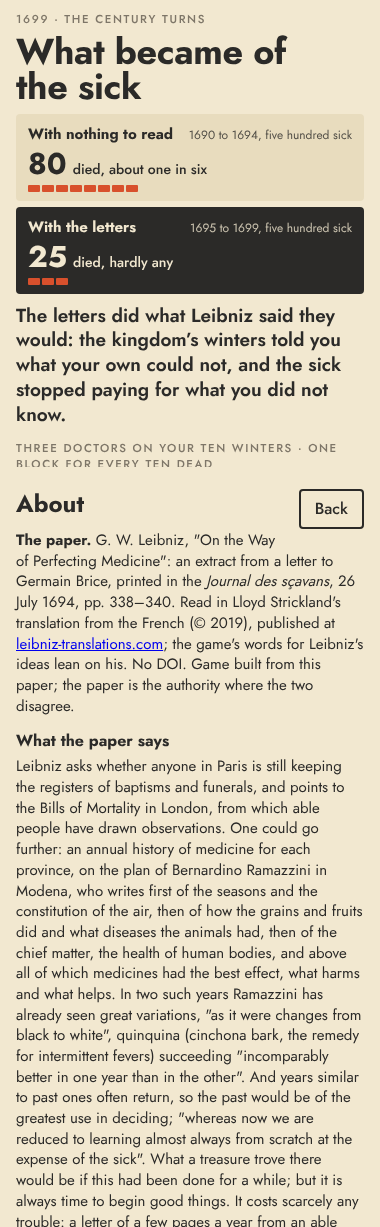
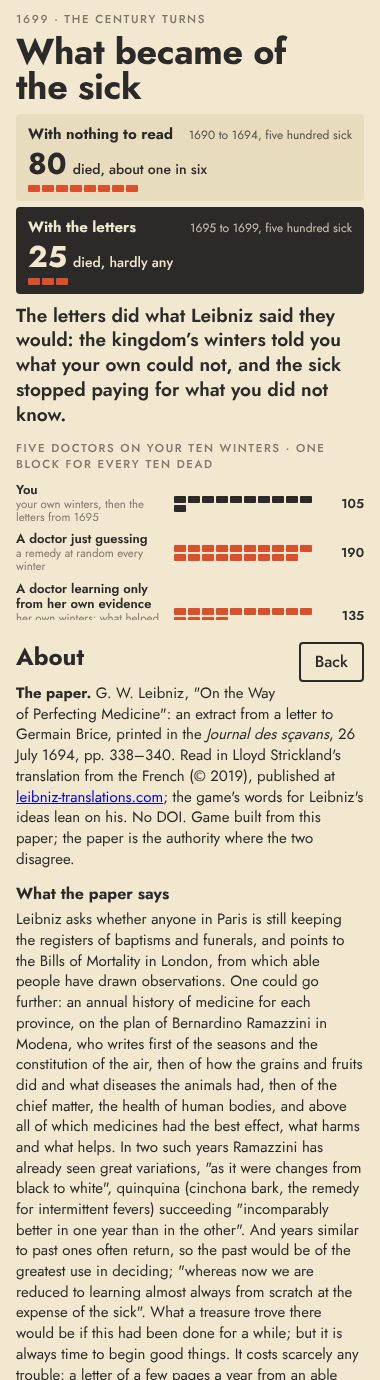
Leibniz's Register: the verdict's ladder of five doctors
You; a doctor just guessing; a doctor learning only from her own evidence (her own winters by kind, what helped, what harmed, what is untried); a doctor in a world with registers since 1690; an omniscient doctor, the floor. Each row says what the doctor goes on. The calibration check proves the ladder's order over three hundred draws.

Claude-Session: https://claude.ai/code/session_018niUhxXQfp1zujFvzx7yxE

Changed region(s): [[0.0289, 0.0, 0.9553, 1.0], [0.6658, 0.0, 0.7526, 0.0619]]

diff --git a/leibniz-medicine/leibnizs-register.html b/leibniz-medicine/leibnizs-register.html
@@ -119,9 +119,9 @@ b,strong{font-weight:700}
 .half .dr{display:flex;flex-wrap:wrap;gap:2px}.half .dr i{display:block;width:12px;height:7px;border-radius:1px;background:var(--tomato)}
 .vl{font-size:15.5px;margin:0 0 8px}
 .docs{margin:10px 0 6px}
-.doc{display:flex;align-items:center;gap:8px;margin:6px 0}
-.doc .dn{width:118px;flex:none;font-size:12.5px;line-height:1.15}
-.doc .dn b{display:block;font-weight:600;font-size:13px}
+.doc{display:flex;align-items:center;gap:8px;margin:8px 0}
+.doc .dn{width:150px;flex:none;font-size:11.5px;line-height:1.15;color:var(--mute)}
+.doc .dn b{display:block;font-weight:600;font-size:13px;color:var(--ink);line-height:1.15}
 .doc .dr{flex:1;display:flex;flex-wrap:wrap;gap:2px}
 .doc .dr i{display:block;width:12px;height:7px;border-radius:1px;background:var(--tomato)}
 .doc.you .dr i{background:var(--ink)}
@@ -252,7 +252,7 @@ b,strong{font-weight:700}
   <h2 class="title" style="font-size:36px">What became of<br>the sick</h2>
   <div class="halves" id="halves"></div>
   <p class="verdict" id="v-lead"></p>
-  <div class="lab" style="margin-top:14px">Three doctors on your ten winters &middot; one block for every ten dead</div>
+  <div class="lab" style="margin-top:14px">Five doctors on your ten winters &middot; one block for every ten dead</div>
   <div class="docs" id="docs"></div>
   <div class="lab" style="margin-top:14px">Your ten winters</div>
   <div class="decade" id="decade"></div>
@@ -290,7 +290,7 @@ b,strong{font-weight:700}
     <h3>What you have to go on</h3>
     <p>Your own past winters, every one, as small cards: the two cards of the winter, what you gave, what came of it. From 1695, the letters: every province's physician writes a few lines a year, and the box under the two cards says what the letters so far show for this kind of winter, how often each remedy helped, was no better than the fever alone, or harmed. The full collection, every letter grouped by kind of winter with your own among them, is behind the black button. The other physicians read the letters too, so from the second year they mostly give what the letters show helped.</p>
     <h3>The end</h3>
-    <p>After 1699 the game shows the dead of your five winters with nothing to read against the dead of your five with the letters, then sets your ten beside a doctor who never read a letter and one who had letters since 1690, and shows your ten winters as they were. Add <i>?seed=</i> and a number to the address to replay a draw.</p>
+    <p>After 1699 the game shows the dead of your five winters with nothing to read against the dead of your five with the letters, then sets your ten beside four doctors on the same winters (one just guessing, one learning only from her own evidence, one in a world with registers since 1690, and an omniscient one), and shows your ten winters as they were. Add <i>?seed=</i> and a number to the address to replay a draw.</p>
   </div>
 </div>
 
@@ -304,7 +304,7 @@ b,strong{font-weight:700}
     <p>Leibniz asks whether anyone in Paris is still keeping the registers of baptisms and funerals, and points to the Bills of Mortality in London, from which able people have drawn observations. One could go further: an annual history of medicine for each province, on the plan of Bernardino Ramazzini in Modena, who writes first of the seasons and the constitution of the air, then of how the grains and fruits did and what diseases the animals had, then of the chief matter, the health of human bodies, and above all of which medicines had the best effect, what harms and what helps. In two such years Ramazzini has already seen great variations, "as it were changes from black to white", quinquina (cinchona bark, the remedy for intermittent fevers) succeeding "incomparably better in one year than in the other". And years similar to past ones often return, so the past would be of the greatest use in deciding; "whereas now we are reduced to learning almost always from scratch at the expense of the sick". What a treasure trove there would be if this had been done for a while; but it is always time to begin good things. It costs scarcely any trouble: a letter of a few pages a year from an able practitioner in each province, to the First Doctor of the King, by public order. France, with its police, could do it best, and the king would deserve more by it than the kings who gave their names to a few medicines, or than Alfonso and Ulugh Beg by their astronomy. The soul and the body, he ends, are the first things that should be thought about, and the last that are.</p>
     <h3>What the game does</h3>
     <p>It gives you the practitioner's winter, ten times. A winter has a kind, and the kind is two things you can see: cold or mild, dry or wet. A hundred sick come with the winter's fever and you give them one remedy: bark, bleeding or rest. Left to itself the fever kills about twenty of a hundred, and the game says so. In every kind of winter one remedy helps (five die), one is no better than the fever alone (twenty), and one harms (thirty), and which is which depends only on the kind; rest is a treatment like the others, bed, warmth and broth by the doctor's order; the same bark helps in one kind and harms in another. You see what the remedy you gave did and nothing about the others. For four winters you have only your own past winters to go on, and you can see all of them: your memory is not the problem, your sample is. One province meets one winter a year, and a kind you have never had tells you nothing. Then Leibniz's letter arrives, and by public order every physician in every province writes a few lines a year to the First Doctor, who sends the collection back. From 1695 the box under the two cards says what the letters so far show for this kind of winter, twenty-four provinces' worth a year, and the whole collection is behind a button; by 1696 it holds the remedy that helps in every kind. The hard part dissolves, and that dissolving is what the game is for. The other physicians choose at random in the first year of letters and from then on give what the letters show helped in their kind, choosing at random only where the letters show nothing yet; so the first year's letters show what harmed as well as what helped, and the later ones converge. The draw is checked so that the letters of 1694 hold the remedy for your 1695 winter and the letters of 1694 and 1695 hold it for every kind.</p>
-    <p>The plan of your own ten winters is fixed and the kinds are drawn fresh each game: a winter that repeats, when trusting last winter is right; a lookalike, one card the same and the other different, when last winter's remedy harms; a new kind with nothing to read; and from 1695 winters the letters answer. At the end the game sets the dead of your five winters with nothing to read against the dead of your five with the letters, and your ten beside two other doctors on the same winters: one who never read a letter, with nothing but his own winters, who repeats what helped last year and otherwise tries another; and one who had had letters from 1690, as Leibniz wished it had been done "for a while now". The score, the dead out of a thousand sick, is the game's; the unit, the sick, is Leibniz's.</p>
+    <p>The plan of your own ten winters is fixed and the kinds are drawn fresh each game: a winter that repeats, when trusting last winter is right; a lookalike, one card the same and the other different, when last winter's remedy harms; a new kind with nothing to read; and from 1695 winters the letters answer. At the end the game sets the dead of your five winters with nothing to read against the dead of your five with the letters, and your ten beside four other doctors on the same winters: one just guessing, a remedy at random every winter; one learning only from her own evidence, her own winters by kind, what helped there, what harmed, what is untried; one in a world with registers since 1690, as Leibniz wished it had been done "for a while now"; and an omniscient one, who knows what helps in every kind of winter from the start and so loses five of a hundred every winter, the floor. The score, the dead out of a thousand sick, is the game's; the unit, the sick, is Leibniz's.</p>
     <h3>What kind of mechanism this is</h3>
     <p><b>Toy.</b> The game runs a model built to illustrate the paper's argument, and where the argument had to be made exact, the toy chose: a winter's kind is two cards; a remedy's effect depends on the kind and on nothing else; five, twenty and thirty of a hundred die under the remedy that helps, is no better than the fever alone, and harms, twenty being the fever's own toll; twenty-four other provinces, each with its own winter and a doctor who chooses at random until the letters show him what helps; and the plan of which kind comes to you when. There is no noise: the same remedy in the same kind of winter does the same thing every time, everywhere.</p>
     <ul>
@@ -504,6 +504,16 @@ b,strong{font-weight:700}
   }
   var DOCTORS = {
     memory: function (game, t, r) { return lastYearRule(game, t, r, []); },       // trusts the remembered winter: repeats what helped last year, otherwise tries another
+    guess: function (game, t, r) { return pick(CONFIG.REMEDIES, r); },             // a remedy at random every winter (verdict row, revision 0d)
+    // learns only from her own evidence: her own winters by kind; gives what helped there, avoids what harmed or was no
+    // better, guesses among the untried (verdict row, revision 0d)
+    ownEvidence: function (game, t, r) {
+      var k = kindAt(game, t), seen = {};
+      game.history.slice(0, t).forEach(function (h) { if (h.kind === k) seen[h.remedy] = h.effect; });
+      var hel = CONFIG.REMEDIES.filter(function (x) { return seen[x] === 'helps'; }); if (hel.length) return hel[0];
+      var untried = CONFIG.REMEDIES.filter(function (x) { return seen[x] === undefined; });
+      return pick(untried.length ? untried : CONFIG.REMEDIES, r);
+    },
     bleeding: function () { return 'bleed'; }, bark: function () { return 'bark'; }, rest: function () { return 'rest'; },
     reader: function (game, t, r) { return readRule(game, t, r, CONFIG.LETTER_YEAR); },   // reads the collection from 1694
     readerFrom1690: function (game, t, r) { return readRule(game, t, r, 1690); },         // Leibniz's counterfactual: every doctor writing "for a while now"
@@ -537,7 +547,7 @@ b,strong{font-weight:700}
     // before: the winters with nothing to read (1690 to 1694, the first letters come back in 1695); after: with the letters
     H.forEach(function (h) { total += h.dead; st[h.lookup.status]++; if (h.year <= CONFIG.LETTER_YEAR) { before += h.dead; nBefore++; } else { after += h.dead; nAfter++; } });
     var others = {};
-    ['memory', 'reader', 'readerFrom1690', 'oracle'].forEach(function (n) { var tot = 0; for (var k = 0; k < CONFIG.OTHER_RUNS; k++) tot += playDoctor(game.seed, n, { run: k }).total; others[n] = 5 * Math.round(tot / CONFIG.OTHER_RUNS / 5); });
+    ['guess', 'ownEvidence', 'memory', 'reader', 'readerFrom1690', 'oracle'].forEach(function (n) { var tot = 0; for (var k = 0; k < CONFIG.OTHER_RUNS; k++) tot += playDoctor(game.seed, n, { run: k }).total; others[n] = 5 * Math.round(tot / CONFIG.OTHER_RUNS / 5); });
     var word = after * nBefore < before * nAfter / 2 ? 'letters' : (after * nBefore >= before * nAfter ? 'ignored' : 'some');
     return { total: total, sick: CONFIG.SICK * H.length, before: before, after: after, sickBefore: nBefore * CONFIG.SICK, sickAfter: nAfter * CONFIG.SICK, status: st, others: others, letters: collection(game, H.length).count, word: word };
   }
@@ -700,8 +710,12 @@ b,strong{font-weight:700}
                  some: 'The letters helped, and not as much as they could have: they held the answer for every winter from 1695, and you did not always give it.',
                  ignored: 'You lost as many with the letters as without them. They held the answer for every winter from 1695; the kingdom\u2019s winters were telling you what to give.' }[s.word];
     $('v-lead').textContent = lead;
-    var docs = [['You', s.total, 'you'], ['Never read a letter', s.others.memory, ''], ['Letters since 1690', s.others.readerFrom1690, '']];
-    $('docs').innerHTML = docs.map(function (d) { var n = Math.round(d[1] / 10), f = ''; for (var i = 0; i < n; i++) f += '<i></i>'; return '<div class="doc ' + d[2] + '"><div class="dn"><b>' + d[0] + '</b>' + (d[2] ? 'ten winters' : d[0] === 'Never read a letter' ? 'own winters only, trusting the last' : 'as Leibniz wished, \u201cfor a while now\u201d') + '</div><div class="dr">' + f + '</div><div class="dc">' + d[1] + '</div></div>'; }).join('');
+    var docs = [['You', 'your own winters, then the letters from 1695', s.total, 'you'],
+                ['A doctor just guessing', 'a remedy at random every winter', s.others.guess, ''],
+                ['A doctor learning only from her own evidence', 'her own winters: what helped there, what harmed, what is untried', s.others.ownEvidence, ''],
+                ['A doctor in a world with registers since 1690', 'the kingdom\u2019s letters from the first winter, as Leibniz wished', s.others.readerFrom1690, ''],
+                ['An omniscient doctor', 'knows what helps in every kind of winter from the start', s.others.oracle, '']];
+    $('docs').innerHTML = docs.map(function (d) { var n = Math.round(d[2] / 10), f = ''; for (var i = 0; i < n; i++) f += '<i></i>'; return '<div class="doc ' + d[3] + '"><div class="dn"><b>' + d[0] + '</b>' + d[1] + '</div><div class="dr">' + f + '</div><div class="dc">' + d[2] + '</div></div>'; }).join('');
     $('decade').innerHTML = H.map(function (h) { return '<div class="dy ' + (h.written ? 'ink' : '') + '"><div class="my">' + h.year + '</div>' + miniSq(h.kind) + '<div class="dd">' + RN[h.remedy] + '</div><div class="dn">' + h.dead + '</div></div>'; }).join('');
     $('v-paper').innerHTML = 'Every doctor in the kingdom now holds ' + s.letters + ' letters. Leibniz, 1694: it is always time to begin good things; a few lines a year from each province would do, and it has only to be desired.';
     $('seedline').textContent = 'Draw ' + game.seed + '. Add ?seed=' + game.seed + ' to the address to play these same winters again.';

diff --git a/leibniz-medicine/about.html b/leibniz-medicine/about.html
@@ -4,7 +4,7 @@
     <p>Leibniz asks whether anyone in Paris is still keeping the registers of baptisms and funerals, and points to the Bills of Mortality in London, from which able people have drawn observations. One could go further: an annual history of medicine for each province, on the plan of Bernardino Ramazzini in Modena, who writes first of the seasons and the constitution of the air, then of how the grains and fruits did and what diseases the animals had, then of the chief matter, the health of human bodies, and above all of which medicines had the best effect, what harms and what helps. In two such years Ramazzini has already seen great variations, "as it were changes from black to white", quinquina (cinchona bark, the remedy for intermittent fevers) succeeding "incomparably better in one year than in the other". And years similar to past ones often return, so the past would be of the greatest use in deciding; "whereas now we are reduced to learning almost always from scratch at the expense of the sick". What a treasure trove there would be if this had been done for a while; but it is always time to begin good things. It costs scarcely any trouble: a letter of a few pages a year from an able practitioner in each province, to the First Doctor of the King, by public order. France, with its police, could do it best, and the king would deserve more by it than the kings who gave their names to a few medicines, or than Alfonso and Ulugh Beg by their astronomy. The soul and the body, he ends, are the first things that should be thought about, and the last that are.</p>
     <h3>What the game does</h3>
     <p>It gives you the practitioner's winter, ten times. A winter has a kind, and the kind is two things you can see: cold or mild, dry or wet. A hundred sick come with the winter's fever and you give them one remedy: bark, bleeding or rest. Left to itself the fever kills about twenty of a hundred, and the game says so. In every kind of winter one remedy helps (five die), one is no better than the fever alone (twenty), and one harms (thirty), and which is which depends only on the kind; rest is a treatment like the others, bed, warmth and broth by the doctor's order; the same bark helps in one kind and harms in another. You see what the remedy you gave did and nothing about the others. For four winters you have only your own past winters to go on, and you can see all of them: your memory is not the problem, your sample is. One province meets one winter a year, and a kind you have never had tells you nothing. Then Leibniz's letter arrives, and by public order every physician in every province writes a few lines a year to the First Doctor, who sends the collection back. From 1695 the box under the two cards says what the letters so far show for this kind of winter, twenty-four provinces' worth a year, and the whole collection is behind a button; by 1696 it holds the remedy that helps in every kind. The hard part dissolves, and that dissolving is what the game is for. The other physicians choose at random in the first year of letters and from then on give what the letters show helped in their kind, choosing at random only where the letters show nothing yet; so the first year's letters show what harmed as well as what helped, and the later ones converge. The draw is checked so that the letters of 1694 hold the remedy for your 1695 winter and the letters of 1694 and 1695 hold it for every kind.</p>
-    <p>The plan of your own ten winters is fixed and the kinds are drawn fresh each game: a winter that repeats, when trusting last winter is right; a lookalike, one card the same and the other different, when last winter's remedy harms; a new kind with nothing to read; and from 1695 winters the letters answer. At the end the game sets the dead of your five winters with nothing to read against the dead of your five with the letters, and your ten beside two other doctors on the same winters: one who never read a letter, with nothing but his own winters, who repeats what helped last year and otherwise tries another; and one who had had letters from 1690, as Leibniz wished it had been done "for a while now". The score, the dead out of a thousand sick, is the game's; the unit, the sick, is Leibniz's.</p>
+    <p>The plan of your own ten winters is fixed and the kinds are drawn fresh each game: a winter that repeats, when trusting last winter is right; a lookalike, one card the same and the other different, when last winter's remedy harms; a new kind with nothing to read; and from 1695 winters the letters answer. At the end the game sets the dead of your five winters with nothing to read against the dead of your five with the letters, and your ten beside four other doctors on the same winters: one just guessing, a remedy at random every winter; one learning only from her own evidence, her own winters by kind, what helped there, what harmed, what is untried; one in a world with registers since 1690, as Leibniz wished it had been done "for a while now"; and an omniscient one, who knows what helps in every kind of winter from the start and so loses five of a hundred every winter, the floor. The score, the dead out of a thousand sick, is the game's; the unit, the sick, is Leibniz's.</p>
     <h3>What kind of mechanism this is</h3>
     <p><b>Toy.</b> The game runs a model built to illustrate the paper's argument, and where the argument had to be made exact, the toy chose: a winter's kind is two cards; a remedy's effect depends on the kind and on nothing else; five, twenty and thirty of a hundred die under the remedy that helps, is no better than the fever alone, and harms, twenty being the fever's own toll; twenty-four other provinces, each with its own winter and a doctor who chooses at random until the letters show him what helps; and the plan of which kind comes to you when. There is no noise: the same remedy in the same kind of winter does the same thing every time, everywhere.</p>
     <ul>

diff --git a/leibniz-medicine/template.html b/leibniz-medicine/template.html
@@ -119,9 +119,9 @@ b,strong{font-weight:700}
 .half .dr{display:flex;flex-wrap:wrap;gap:2px}.half .dr i{display:block;width:12px;height:7px;border-radius:1px;background:var(--tomato)}
 .vl{font-size:15.5px;margin:0 0 8px}
 .docs{margin:10px 0 6px}
-.doc{display:flex;align-items:center;gap:8px;margin:6px 0}
-.doc .dn{width:118px;flex:none;font-size:12.5px;line-height:1.15}
-.doc .dn b{display:block;font-weight:600;font-size:13px}
+.doc{display:flex;align-items:center;gap:8px;margin:8px 0}
+.doc .dn{width:150px;flex:none;font-size:11.5px;line-height:1.15;color:var(--mute)}
+.doc .dn b{display:block;font-weight:600;font-size:13px;color:var(--ink);line-height:1.15}
 .doc .dr{flex:1;display:flex;flex-wrap:wrap;gap:2px}
 .doc .dr i{display:block;width:12px;height:7px;border-radius:1px;background:var(--tomato)}
 .doc.you .dr i{background:var(--ink)}
@@ -252,7 +252,7 @@ b,strong{font-weight:700}
   <h2 class="title" style="font-size:36px">What became of<br>the sick</h2>
   <div class="halves" id="halves"></div>
   <p class="verdict" id="v-lead"></p>
-  <div class="lab" style="margin-top:14px">Three doctors on your ten winters &middot; one block for every ten dead</div>
+  <div class="lab" style="margin-top:14px">Five doctors on your ten winters &middot; one block for every ten dead</div>
   <div class="docs" id="docs"></div>
   <div class="lab" style="margin-top:14px">Your ten winters</div>
   <div class="decade" id="decade"></div>
@@ -290,7 +290,7 @@ b,strong{font-weight:700}
     <h3>What you have to go on</h3>
     <p>Your own past winters, every one, as small cards: the two cards of the winter, what you gave, what came of it. From 1695, the letters: every province's physician writes a few lines a year, and the box under the two cards says what the letters so far show for this kind of winter, how often each remedy helped, was no better than the fever alone, or harmed. The full collection, every letter grouped by kind of winter with your own among them, is behind the black button. The other physicians read the letters too, so from the second year they mostly give what the letters show helped.</p>
     <h3>The end</h3>
-    <p>After 1699 the game shows the dead of your five winters with nothing to read against the dead of your five with the letters, then sets your ten beside a doctor who never read a letter and one who had letters since 1690, and shows your ten winters as they were. Add <i>?seed=</i> and a number to the address to replay a draw.</p>
+    <p>After 1699 the game shows the dead of your five winters with nothing to read against the dead of your five with the letters, then sets your ten beside four doctors on the same winters (one just guessing, one learning only from her own evidence, one in a world with registers since 1690, and an omniscient one), and shows your ten winters as they were. Add <i>?seed=</i> and a number to the address to replay a draw.</p>
   </div>
 </div>
 
@@ -438,8 +438,12 @@ b,strong{font-weight:700}
                  some: 'The letters helped, and not as much as they could have: they held the answer for every winter from 1695, and you did not always give it.',
                  ignored: 'You lost as many with the letters as without them. They held the answer for every winter from 1695; the kingdom\u2019s winters were telling you what to give.' }[s.word];
     $('v-lead').textContent = lead;
-    var docs = [['You', s.total, 'you'], ['Never read a letter', s.others.memory, ''], ['Letters since 1690', s.others.readerFrom1690, '']];
-    $('docs').innerHTML = docs.map(function (d) { var n = Math.round(d[1] / 10), f = ''; for (var i = 0; i < n; i++) f += '<i></i>'; return '<div class="doc ' + d[2] + '"><div class="dn"><b>' + d[0] + '</b>' + (d[2] ? 'ten winters' : d[0] === 'Never read a letter' ? 'own winters only, trusting the last' : 'as Leibniz wished, \u201cfor a while now\u201d') + '</div><div class="dr">' + f + '</div><div class="dc">' + d[1] + '</div></div>'; }).join('');
+    var docs = [['You', 'your own winters, then the letters from 1695', s.total, 'you'],
+                ['A doctor just guessing', 'a remedy at random every winter', s.others.guess, ''],
+                ['A doctor learning only from her own evidence', 'her own winters: what helped there, what harmed, what is untried', s.others.ownEvidence, ''],
+                ['A doctor in a world with registers since 1690', 'the kingdom\u2019s letters from the first winter, as Leibniz wished', s.others.readerFrom1690, ''],
+                ['An omniscient doctor', 'knows what helps in every kind of winter from the start', s.others.oracle, '']];
+    $('docs').innerHTML = docs.map(function (d) { var n = Math.round(d[2] / 10), f = ''; for (var i = 0; i < n; i++) f += '<i></i>'; return '<div class="doc ' + d[3] + '"><div class="dn"><b>' + d[0] + '</b>' + d[1] + '</div><div class="dr">' + f + '</div><div class="dc">' + d[2] + '</div></div>'; }).join('');
     $('decade').innerHTML = H.map(function (h) { return '<div class="dy ' + (h.written ? 'ink' : '') + '"><div class="my">' + h.year + '</div>' + miniSq(h.kind) + '<div class="dd">' + RN[h.remedy] + '</div><div class="dn">' + h.dead + '</div></div>'; }).join('');
     $('v-paper').innerHTML = 'Every doctor in the kingdom now holds ' + s.letters + ' letters. Leibniz, 1694: it is always time to begin good things; a few lines a year from each province would do, and it has only to be desired.';
     $('seedline').textContent = 'Draw ' + game.seed + '. Add ?seed=' + game.seed + ' to the address to play these same winters again.';

diff --git a/leibniz-medicine/mechanism.js b/leibniz-medicine/mechanism.js
@@ -181,6 +181,16 @@
   }
   var DOCTORS = {
     memory: function (game, t, r) { return lastYearRule(game, t, r, []); },       // trusts the remembered winter: repeats what helped last year, otherwise tries another
+    guess: function (game, t, r) { return pick(CONFIG.REMEDIES, r); },             // a remedy at random every winter (verdict row, revision 0d)
+    // learns only from her own evidence: her own winters by kind; gives what helped there, avoids what harmed or was no
+    // better, guesses among the untried (verdict row, revision 0d)
+    ownEvidence: function (game, t, r) {
+      var k = kindAt(game, t), seen = {};
+      game.history.slice(0, t).forEach(function (h) { if (h.kind === k) seen[h.remedy] = h.effect; });
+      var hel = CONFIG.REMEDIES.filter(function (x) { return seen[x] === 'helps'; }); if (hel.length) return hel[0];
+      var untried = CONFIG.REMEDIES.filter(function (x) { return seen[x] === undefined; });
+      return pick(untried.length ? untried : CONFIG.REMEDIES, r);
+    },
     bleeding: function () { return 'bleed'; }, bark: function () { return 'bark'; }, rest: function () { return 'rest'; },
     reader: function (game, t, r) { return readRule(game, t, r, CONFIG.LETTER_YEAR); },   // reads the collection from 1694
     readerFrom1690: function (game, t, r) { return readRule(game, t, r, 1690); },         // Leibniz's counterfactual: every doctor writing "for a while now"
@@ -214,7 +224,7 @@
     // before: the winters with nothing to read (1690 to 1694, the first letters come back in 1695); after: with the letters
     H.forEach(function (h) { total += h.dead; st[h.lookup.status]++; if (h.year <= CONFIG.LETTER_YEAR) { before += h.dead; nBefore++; } else { after += h.dead; nAfter++; } });
     var others = {};
-    ['memory', 'reader', 'readerFrom1690', 'oracle'].forEach(function (n) { var tot = 0; for (var k = 0; k < CONFIG.OTHER_RUNS; k++) tot += playDoctor(game.seed, n, { run: k }).total; others[n] = 5 * Math.round(tot / CONFIG.OTHER_RUNS / 5); });
+    ['guess', 'ownEvidence', 'memory', 'reader', 'readerFrom1690', 'oracle'].forEach(function (n) { var tot = 0; for (var k = 0; k < CONFIG.OTHER_RUNS; k++) tot += playDoctor(game.seed, n, { run: k }).total; others[n] = 5 * Math.round(tot / CONFIG.OTHER_RUNS / 5); });
     var word = after * nBefore < before * nAfter / 2 ? 'letters' : (after * nBefore >= before * nAfter ? 'ignored' : 'some');
     return { total: total, sick: CONFIG.SICK * H.length, before: before, after: after, sickBefore: nBefore * CONFIG.SICK, sickAfter: nAfter * CONFIG.SICK, status: st, others: others, letters: collection(game, H.length).count, word: word };
   }

diff --git a/leibniz-medicine/calibration.js b/leibniz-medicine/calibration.js
@@ -52,13 +52,15 @@ check('the letters of 1694 and 1695 hold the helper of every kind of winter', ga
 })();
 
 // 5. the doctors' table (memo §18)
-var NAMES = ['oracle', 'readerFrom1690', 'reader', 'memory', 'bark', 'bleeding', 'rest'];
+var NAMES = ['oracle', 'readerFrom1690', 'reader', 'ownEvidence', 'memory', 'guess', 'bark', 'bleeding', 'rest'];
 var table = {}, perYear = {};
 NAMES.forEach(function (n) { var tot = 0, py = []; games.forEach(function (g) { var r = M.playDoctor(g.seed, n); tot += r.total; r.perYear.forEach(function (d, i) { py[i] = (py[i] || 0) + d; }); }); table[n] = tot / games.length; perYear[n] = py.map(function (d) { return d / games.length; }); });
 out.push('     dead over ten winters (of a thousand sick), mean over ' + SEEDS + ' seeds:');
 NAMES.forEach(function (n) { out.push('       ' + (n + '                ').slice(0, 18) + Math.round(table[n]) + '   by year: ' + perYear[n].map(function (d) { return Math.round(d); }).join(' ')); });
 check('order: oracle < collection from 1690 < collection from 1694 < memory alone', table.oracle < table.readerFrom1690 && table.readerFrom1690 < table.reader && table.reader < table.memory, Math.round(table.oracle) + ' < ' + Math.round(table.readerFrom1690) + ' < ' + Math.round(table.reader) + ' < ' + Math.round(table.memory));
 check('oracle loses exactly fifty', table.oracle === 50);
+check('the verdict ladder: omniscient < registers since 1690 < own evidence < guessing', table.oracle < table.readerFrom1690 && table.readerFrom1690 < table.ownEvidence && table.ownEvidence < table.guess, [table.oracle, table.readerFrom1690, table.ownEvidence, table.guess].map(Math.round).join(' < '));
+check('the reader beats the own-evidence doctor, and only after 1694', table.reader < table.ownEvidence && [0, 1, 2, 3, 4].every(function (t) { return Math.abs(perYear.reader[t] - perYear.ownEvidence[t]) < 10; }) && perYear.reader[5] < perYear.ownEvidence[5] - 8, Math.round(table.reader) + ' < ' + Math.round(table.ownEvidence));
 check('the reader loses five every winter from 1695: near perfect information', [5, 6, 7, 8, 9].every(function (t) { return perYear.reader[t] === 5; }));
 check('the reader is the memory doctor until 1694', [0, 1, 2, 3, 4].every(function (t) { return perYear.reader[t] === perYear.memory[t]; }));
 check('the memory doctor loses most on the lookalike winters 1692 and 1697', [2, 7].every(function (t) { return perYear.memory[t] > 22 && perYear.memory[t] > perYear.memory[t - 1]; }), perYear.memory.map(Math.round).join(' '));

diff --git a/leibniz-medicine/memo.md b/leibniz-medicine/memo.md
@@ -18,6 +18,10 @@ The author met the line "Bleeding did nothing this winter" and asked what it was
 
 The author found the second regime still a guess (twenty-four letters a year behind a button, three or four per kind the first year) and the verdict cumbersome (a list of how many winters were like the last, five doctors in a paragraph, tags on every card). Three changes to the second regime: the First Doctor's digest sits on the play screen under the two cards, for this winter's kind, with a chip per remedy (helped n, no better n, harmed n, not tried), Leibniz's "able people have drawn important observations"; twenty-four provinces instead of twelve; and the other physicians read the letters too, giving what the collection shows helped in their kind from the second year and choosing at random only where it shows nothing, so the digest converges (every letter of 1699 reports the helper). The game becomes trivial once the data are there; that is the point, and the author said so. The verdict now leads with two halves, the five winters with nothing to read against the five with the letters, each a count, a size in words and a row of blocks; one sentence in words (the letters did what Leibniz said; or they helped less than they could; or you lost as many with them as without); three doctors, not five (you, one who never read a letter, one with letters since 1690); the ten winters as cards with the red count of the dead and no tags; and the Leibniz line with the count of letters the kingdom now holds. The own-winters strip became one scrolling row to keep the crowd on screen. Calibration: the same order, reader 116 against memory 189, letters from 1690 63.
 
+## 0d. Revision, 25 November 2026, later (the ladder of doctors)
+
+The author asked for the verdict's doctors as a ladder: you; a doctor just guessing; a doctor learning only from her own evidence; a doctor in a world with registers already there in 1690; and, for the floor, an omniscient doctor (his word for what had been "knew every winter"). Built as five rows, each with a line saying what the doctor goes on. The own-evidence doctor is the careful learner, not the one who trusts last winter: she keeps her own winters by kind, gives what helped there, avoids what harmed or was no better, and guesses only among the untried; she is the player's own best play without letters and the honest baseline for what the letters add. Over three hundred draws: guessing 181, own evidence 131, the player reading from 1695 typically 105 to 120, registers since 1690 63, omniscient 50. The reader's gain over the own-evidence doctor inside these ten winters is 1695, a kind she never had; the big step is the registers since 1690, which is where the paper puts it. The trusting-last-winter doctor leaves the verdict and lives in 1692.
+
 ## 1. Paper
 
 G. W. Leibniz, "On the Way of Perfecting Medicine" (*Sur la manière de perfectionner la médecine*): an extract from a letter to Germain Brice, printed in the *Journal des sçavans*, 26 July 1694, pp. 338–340. Read in Lloyd Strickland's translation (© 2019), two pages with ten notes, supplied as a PDF; the translation is published at leibniz-translations.com (the page could not be reached from the build environment; the author-note says so). No DOI, no data, no code, no figures, no numbers. The game is built from the text alone.
@@ -159,5 +163,6 @@ What the table says. The two regimes are the two halves of the reader's row: the
 - Two browser sessions at 380 × 760 (`session-test.js`, `session-log.txt`): seed 42 played by the reading rule, with How to play opened in 1692 and the collection in 1695 and 1698; seed 7 by the own-winters rule; a laptop window. No page errors, no horizontal scroll, the collection dead until 1695 and live after, Give dead until a remedy is chosen.
 - Fixed on the screenshots: the strip of own winters pushing the crowd below the fold from 1696 (the cards lost their figure row, the winter line went, the cards and the book button shrank); the lookalike line reworded to name both winters plainly.
 - Revision 0b: the baseline on screen and the middle word reworded; rebuilt and rerun, no errors.
+- Revision 0d: the five-row ladder of doctors (guessing, own evidence, you, registers since 1690, omniscient); calibration checks the ladder's order; rebuilt and rerun, no errors.
 - Revision 0c: the digest, twenty-four provinces, readers, the verdict in two halves; the own-winters strip as one scrolling row (Give's bottom at 564 to 615 px); rebuilt and rerun, no errors.
 - Not measured: session length. Not tested in Safari. Not reachable from here: leibniz-translations.com (author-note).

diff --git a/leibniz-medicine/author-note.md b/leibniz-medicine/author-note.md
@@ -1,6 +1,6 @@
 # Leibniz's Register — note for the author (second build)
 
-1. Look first at `screenshot-a-1692-result.png` (the lookalike winter: bark harmed, and the line that names both winters), `screenshot-a-1695-choose.png` (the first winter with the letters: the digest under the cards, five own winters in the strip, none of them this kind), `screenshot-a-1695-collection.png` and `screenshot-a-1698-collection.png` (the collection at thirteen letters and at fifty-two, grouped by kind with the tallies), and `screenshot-a-end.png` (the verdict in two halves, three doctors, the ten winters). Then play it on a phone; the thing to judge is whether 1695 lands, when a winter you never had is answered by twelve doctors you never met, and whether the alone years are hard in the right way rather than merely hard. Add `?seed=42` for the draw the screenshots show.
+1. Look first at `screenshot-a-1692-result.png` (the lookalike winter: bark harmed, and the line that names both winters), `screenshot-a-1695-choose.png` (the first winter with the letters: the digest under the cards, five own winters in the strip, none of them this kind), `screenshot-a-1695-collection.png` and `screenshot-a-1698-collection.png` (the collection at thirteen letters and at fifty-two, grouped by kind with the tallies), and `screenshot-a-end.png` (the verdict in two halves, the ladder of five doctors, the ten winters). Then play it on a phone; the thing to judge is whether 1695 lands, when a winter you never had is answered by twelve doctors you never met, and whether the alone years are hard in the right way rather than merely hard. Add `?seed=42` for the draw the screenshots show.
 2. Everything tunable is in `CONFIG` at the top of `mechanism.js`, the only copy of the mechanism: the plan of your own winters (`PLAN`, as letters: A any kind, B its lookalike, C and D the others), the letter year, the three counts of the dead, the twenty-four provinces, whether the other physicians read (`OTHERS_READ`), and the two floors on the draw (`FLOOR`: the letters of 1694 must hold your 1695 winter's helper; by 1696 every kind's). Change a thing and run `node calibration.js`; then `python3 build.py`, which runs the check again and refuses to build on a failure or a mechanism mismatch.
 3. What we were least sure about: (a) the other physicians read the letters from their second year, so the digest converges fast and the second regime is near certain; the first year's letters keep the harm rows; `OTHERS_READ` in `CONFIG` turns this off; (b) the floors reject about two draws in three to make 1695 and 1696 certain; without them the reader still beats memory by a wide margin (calibration), but a stranger could meet a 1695 with no answer; (c) the collection groups the letters by kind, so the matching is done by the record, as a compiled collection would do it, and the player's job is to find their group and read; if you want the player to match the cards themselves, the raw letters sorted by year are one change in `renderBook`; (d) a fixed remedy does about as well as the own-winters doctor over the ten (memo §18); (e) the link to Strickland's page could not be checked from here; (f) rest is a treatment like the others and can harm; if you would rather it never did worse than the fever alone, the constraint is one line in `drawEffects` and the always-rest doctor then becomes a safe, mediocre strategy (about 160 of a thousand).
 

diff --git a/leibniz-medicine/row.md b/leibniz-medicine/row.md
@@ -1,1 +1,1 @@
-| **Leibniz's Register** | Leibniz (1694), "On the Way of Perfecting Medicine", *Journal des sçavans*, 26 July 1694, pp. 338–340, in Lloyd Strickland's translation (2019). The same bark cures in one year and fails in the next, years like past years come back, and a doctor with only his own years to go on learns from scratch at the expense of the sick; a few lines a year from every province, collected, would tell him. As a 1950s annual report in cream, charcoal, mustard, teal and tomato: you are the physician of a province for ten winters, 1690 to 1699. Two cards say what kind of winter it is, cold or mild and dry or wet; a hundred Isotype figures are the sick who came; you give them bark, bleeding or rest, and the dead lie down in red. Four winters alone, with nothing but your own past winters in a row of small cards, and the lookalike winter where last winter's remedy kills. Then Leibniz's letter: by order of the King every physician in every province writes a few lines a year, and the collection comes back to you: under the two cards, what twenty-four provinces saw in this kind of winter, how often each remedy helped and harmed, and every letter behind a button. What one doctor sees in a lifetime, twenty-four see in a year. At the end, the dead of your five winters with nothing to read against your five with the letters, beside a doctor who never read a letter and one who had had them since 1690. | [play](https://steffenhuck.github.io/paper-to-game/leibniz-medicine/leibnizs-register.html) · [memo](leibniz-medicine/memo.md) · [previous version](leibniz-medicine/previous/memo.md) |
+| **Leibniz's Register** | Leibniz (1694), "On the Way of Perfecting Medicine", *Journal des sçavans*, 26 July 1694, pp. 338–340, in Lloyd Strickland's translation (2019). The same bark cures in one year and fails in the next, years like past years come back, and a doctor with only his own years to go on learns from scratch at the expense of the sick; a few lines a year from every province, collected, would tell him. As a 1950s annual report in cream, charcoal, mustard, teal and tomato: you are the physician of a province for ten winters, 1690 to 1699. Two cards say what kind of winter it is, cold or mild and dry or wet; a hundred Isotype figures are the sick who came; you give them bark, bleeding or rest, and the dead lie down in red. Four winters alone, with nothing but your own past winters in a row of small cards, and the lookalike winter where last winter's remedy kills. Then Leibniz's letter: by order of the King every physician in every province writes a few lines a year, and the collection comes back to you: under the two cards, what twenty-four provinces saw in this kind of winter, how often each remedy helped and harmed, and every letter behind a button. What one doctor sees in a lifetime, twenty-four see in a year. At the end, the dead of your five winters with nothing to read against your five with the letters, beside a doctor just guessing, one learning only from her own evidence, one in a world with registers since 1690, and an omniscient one. | [play](https://steffenhuck.github.io/paper-to-game/leibniz-medicine/leibnizs-register.html) · [memo](leibniz-medicine/memo.md) · [previous version](leibniz-medicine/previous/memo.md) |
